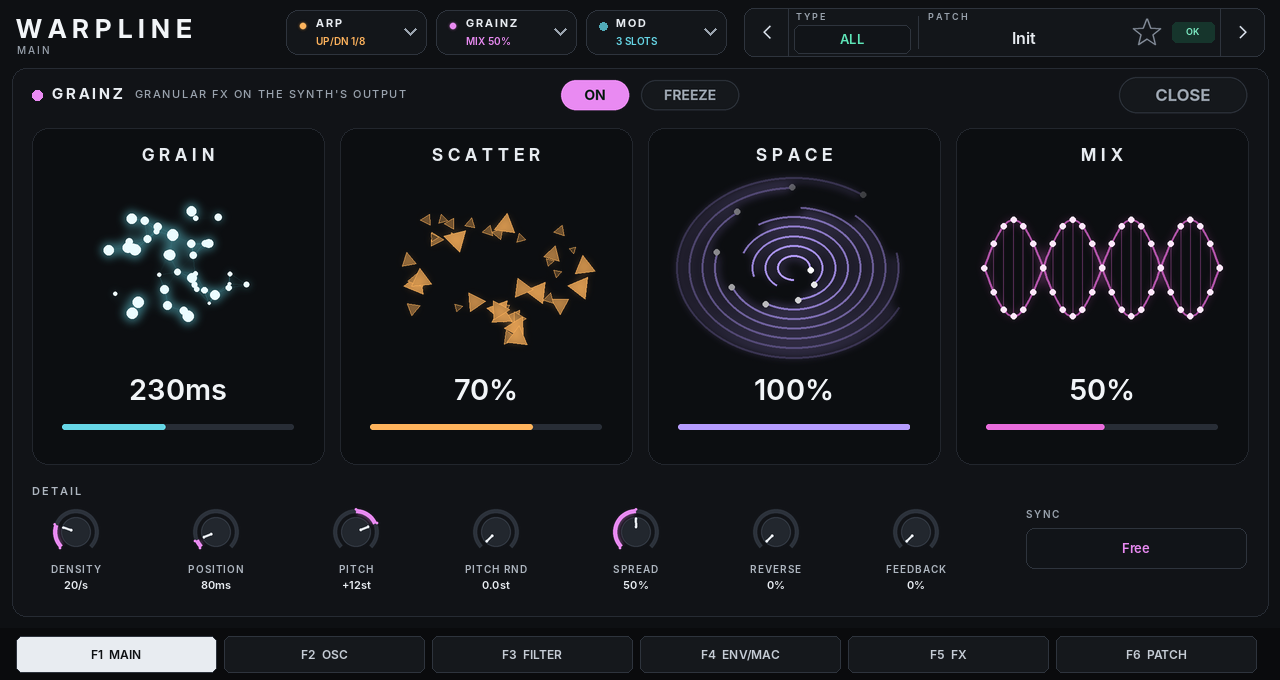
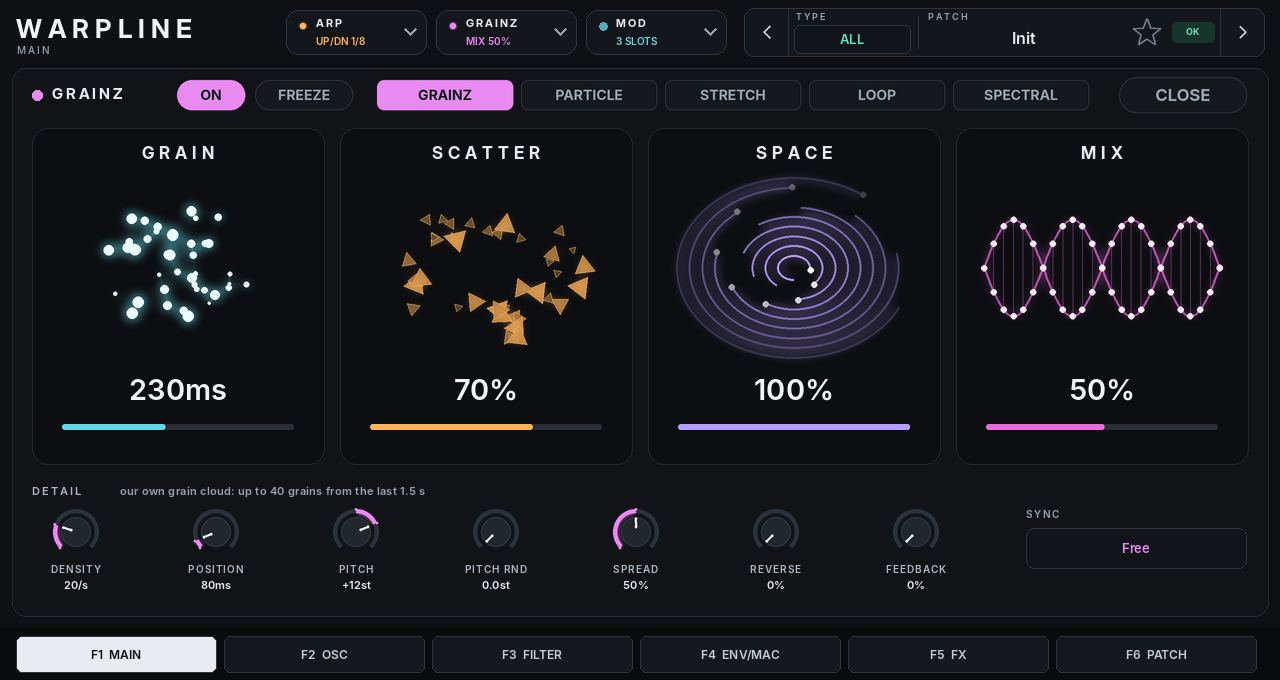
Docs: GRAINZ texture modes, credits, CPU numbers
Claude-Session: https://claude.ai/code/session_01F2p31JWVcig8bzQs6DwDs1

diff --git a/README.md b/README.md
@@ -144,6 +144,24 @@ GRAINZ is a granular effect on Warpline's output. It keeps the last 1.5 seconds 
   (chance that a grain plays backwards), feedback, and **SYNC** (grains on 1/4 to 1/16T instead of the density knob).
 - **FREEZE** holds the buffer, so the grains keep playing what is already in it.
 
+![GRAINZ in STRETCH mode](docs/screenshots/warpline-grainz-stretch.png)
+
+**Engines.** The buttons along the top choose how GRAINZ works:
+- **GRAINZ:** Warpline's own grain cloud, as described above.
+- **PARTICLE, STRETCH, LOOP and SPECTRAL:** texture modes, built on Emilie Gillet's open-source granular processor (MIT licence, see
+  `third_party/mutable`). They work on about the last second of sound. In these modes the columns are titled
+  **SIZE / DENSITY / REVERB / MIX**, and a **TEXTURE** knob takes the place of density in the detail row. A line under DETAIL says what
+  each control does in the chosen mode:
+  - **PARTICLE:** grains. DENSITY in the centre = few grains, to the left = regular, to the right = random. TEXTURE = grain shape, and
+    diffusion at the top of its range.
+  - **STRETCH:** time stretch and pitch shift. SIZE = window size, DENSITY = diffusion, TEXTURE = filter (low-pass to the left, high-pass
+    to the right).
+  - **LOOP:** a looping delay. POSITION = delay time, FREEZE turns it into a loop, SIZE = loop length, TEXTURE = filter.
+  - **SPECTRAL:** spectral processing. SIZE = warp, DENSITY = how often the spectrum refreshes (and phase blur), TEXTURE = quantise.
+  - **In every texture mode:** PITCH, SPREAD, FEEDBACK and FREEZE work as their names say. SYNC sends a trigger on each beat line
+    (in PARTICLE, a trigger fires a grain). The processor runs at its own 32 kHz, so the wet sound is band-limited to about 14 kHz.
+    The dry sound isn't affected.
+
 ### Mod matrix (MOD)
 ![The mod matrix](docs/screenshots/warpline-mod.png)
 
@@ -236,7 +254,8 @@ Good to know:
 ## Files
 - `skins/`: the custom screen (built by `tools_build_skin.py`) · `tools_preview_skin.py`: page previews
 - `src/Warpline.cpp`: the MPC plugin (parameters, pages, patch browser, search, favourites, mod matrix, threading)
-- `src/Arp.h`: the arpeggiator · `src/Granulator.h`: GRAINZ · `src/VitalCore.*`: drives one Vital engine, loads and saves .vital
+- `src/Arp.h`: the arpeggiator · `src/Granulator.h`: GRAINZ · `src/GrainzClouds.*` + `third_party/mutable/`: GRAINZ's texture
+  modes (MIT, vendored, see its README) · `src/VitalCore.*`: drives one Vital engine, loads and saves .vital
 - `src/VitalEngine.cpp`: unity build of the engine · `vital/`: Vital's engine sources (synthesis + the parts of common/ it needs)
 - `shim/JuceHeader.h`: tiny stand-in for the few JUCE bits the engine used (macros, Base64). No JUCE is needed.
 - `Content/Patches/`: factory patches · `tools/make_factory.cpp`: rebuilds them (see `tools/README.md`)
@@ -259,4 +278,6 @@ patch upgrader was split out of `load_save.cpp`, kissfft is included outside the
 ## Licence
 **GPL-3.0-or-later** (see `LICENSE`). Vital is © Matt Tytel and released under GPLv3 (https://github.com/mtytel/vital).
 If you share this plugin, share its source too (this folder). "Vital" is Matt Tytel's trademark, so this edition has its own name, Warpline. It is not made or endorsed by Vital Audio.
-The MPC Plugin SDK framework (`framework/`, MIT) is linked unchanged. kissfft is BSD-3-Clause and nlohmann/json is MIT.
+The MPC Plugin SDK framework (`framework/`, MIT) is linked unchanged. GRAINZ's texture modes use Emilie Gillet's open-source granular
+processor and stmlib (MIT, `third_party/mutable/LICENSE`; one fix, listed in `third_party/mutable/README.md`). "Mutable Instruments" is a
+registered trademark, and Warpline isn't made or endorsed by Emilie Gillet or Mutable Instruments. kissfft is BSD-3-Clause and nlohmann/json is MIT.

diff --git a/DEVELOPMENT.md b/DEVELOPMENT.md
@@ -94,6 +94,21 @@ builds still load. Your own patch folder moved from `<drive>\Vitalium\Patches` t
     `loadExtraState` therefore clears the gesture, or each project load would "tap" a row and change the patch
     (found offline, 2026-11-18).
 
+## GRAINZ texture modes (2026-11-19, offline)
+- **Parameters:** `Grain Mode` (Grainz, Particle, Stretch, Loop, Spectral) and `Grain Texture`, appended after `List Drag Page`.
+  Mode 0 is our `Granulator`. Modes 1-4 are `GrainzClouds`, built on the vendored processor in `third_party/mutable`.
+  `GrainzClouds.cpp` is its only translation unit (it defines `TEST` for the portable code paths); `build-extra.json` adds
+  `third_party/mutable` to the include path.
+- **Rates:** the processor runs at 32 kHz on 32-frame blocks.
+  - Host to 32 kHz: a 4th-order Butterworth low-pass at 13.5 kHz, then Hermite interpolation.
+  - The output comes back the same way, through a 48-frame primed FIFO.
+  - Only the wet signal comes out. Warpline mixes dry and wet equal-power at the host rate.
+- **Mapping:** size = (GRAIN − 10) / 490, density = SCATTER, reverb = SPACE, position = POSITION / 1000, pitch, spread, feedback,
+  freeze, texture. SYNC sends a trigger at each grid line (block accuracy).
+- **Upstream bug fixed:** `Window::Start()` never cleared `done_`, so STRETCH was silent. Listed in `third_party/mutable/README.md`.
+- **CPU, x86 native, 256-frame blocks at 44.1 kHz, the whole plugin with one note:** dry 22 µs; GRAINZ 69; PARTICLE 79; STRETCH 98;
+  LOOP 89; SPECTRAL 141 µs. Measure on the MPC before release.
+
 ## Rules that must not break
 
 - Never change the uid `CvVm`, the .so names or parameter ids. Only add new parameters at the END of the list (older ones
